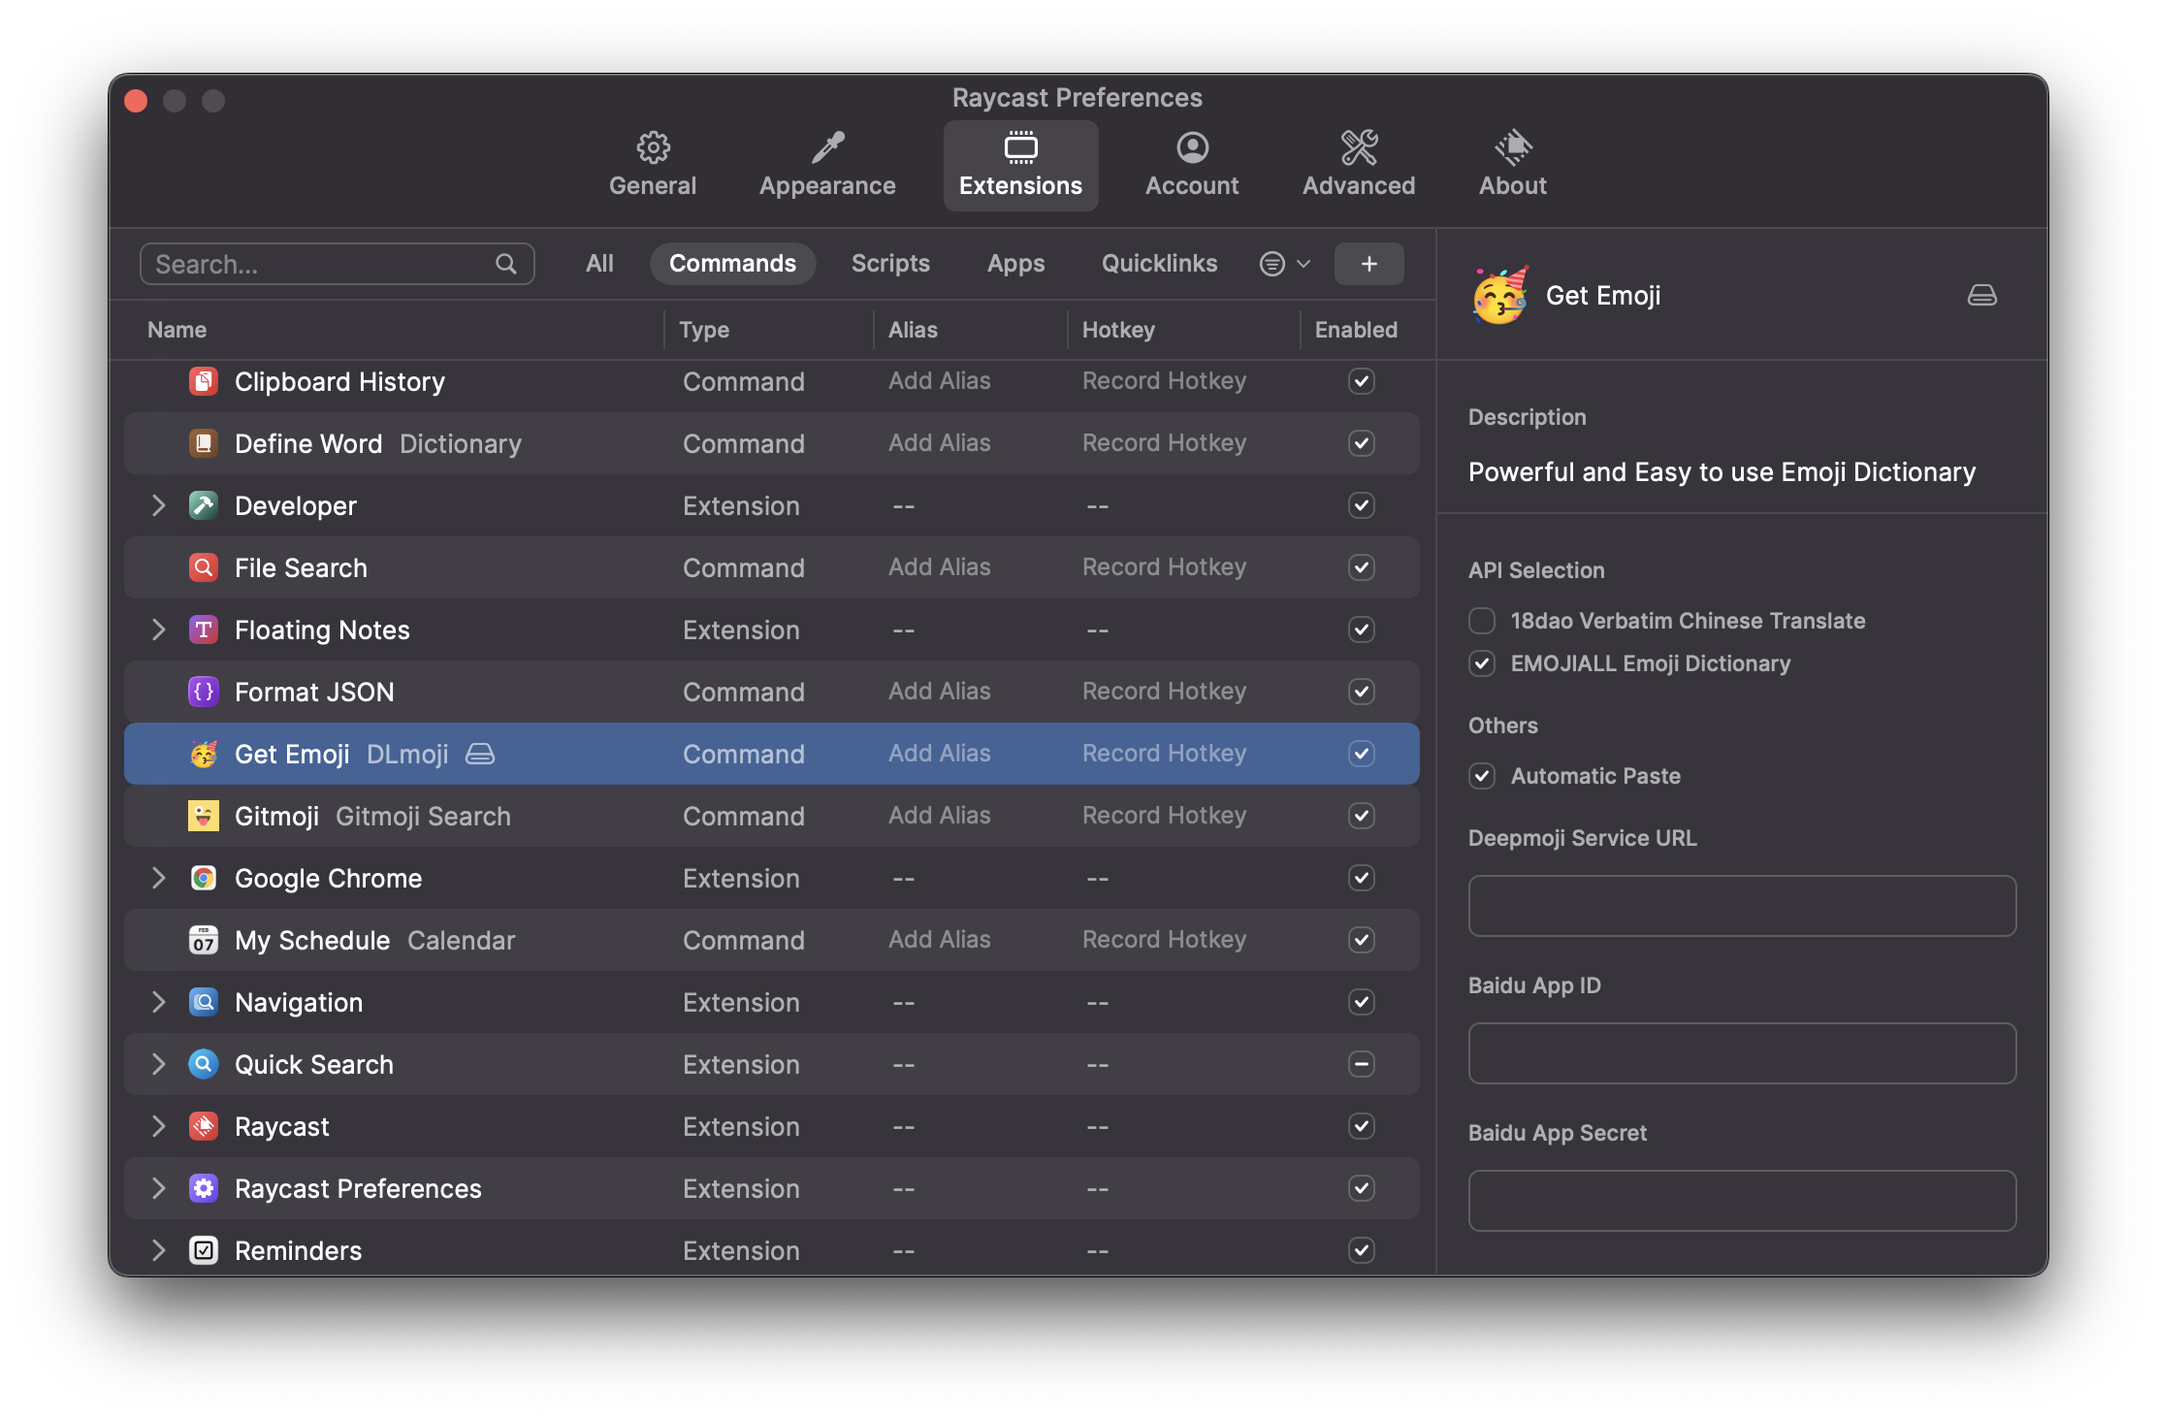
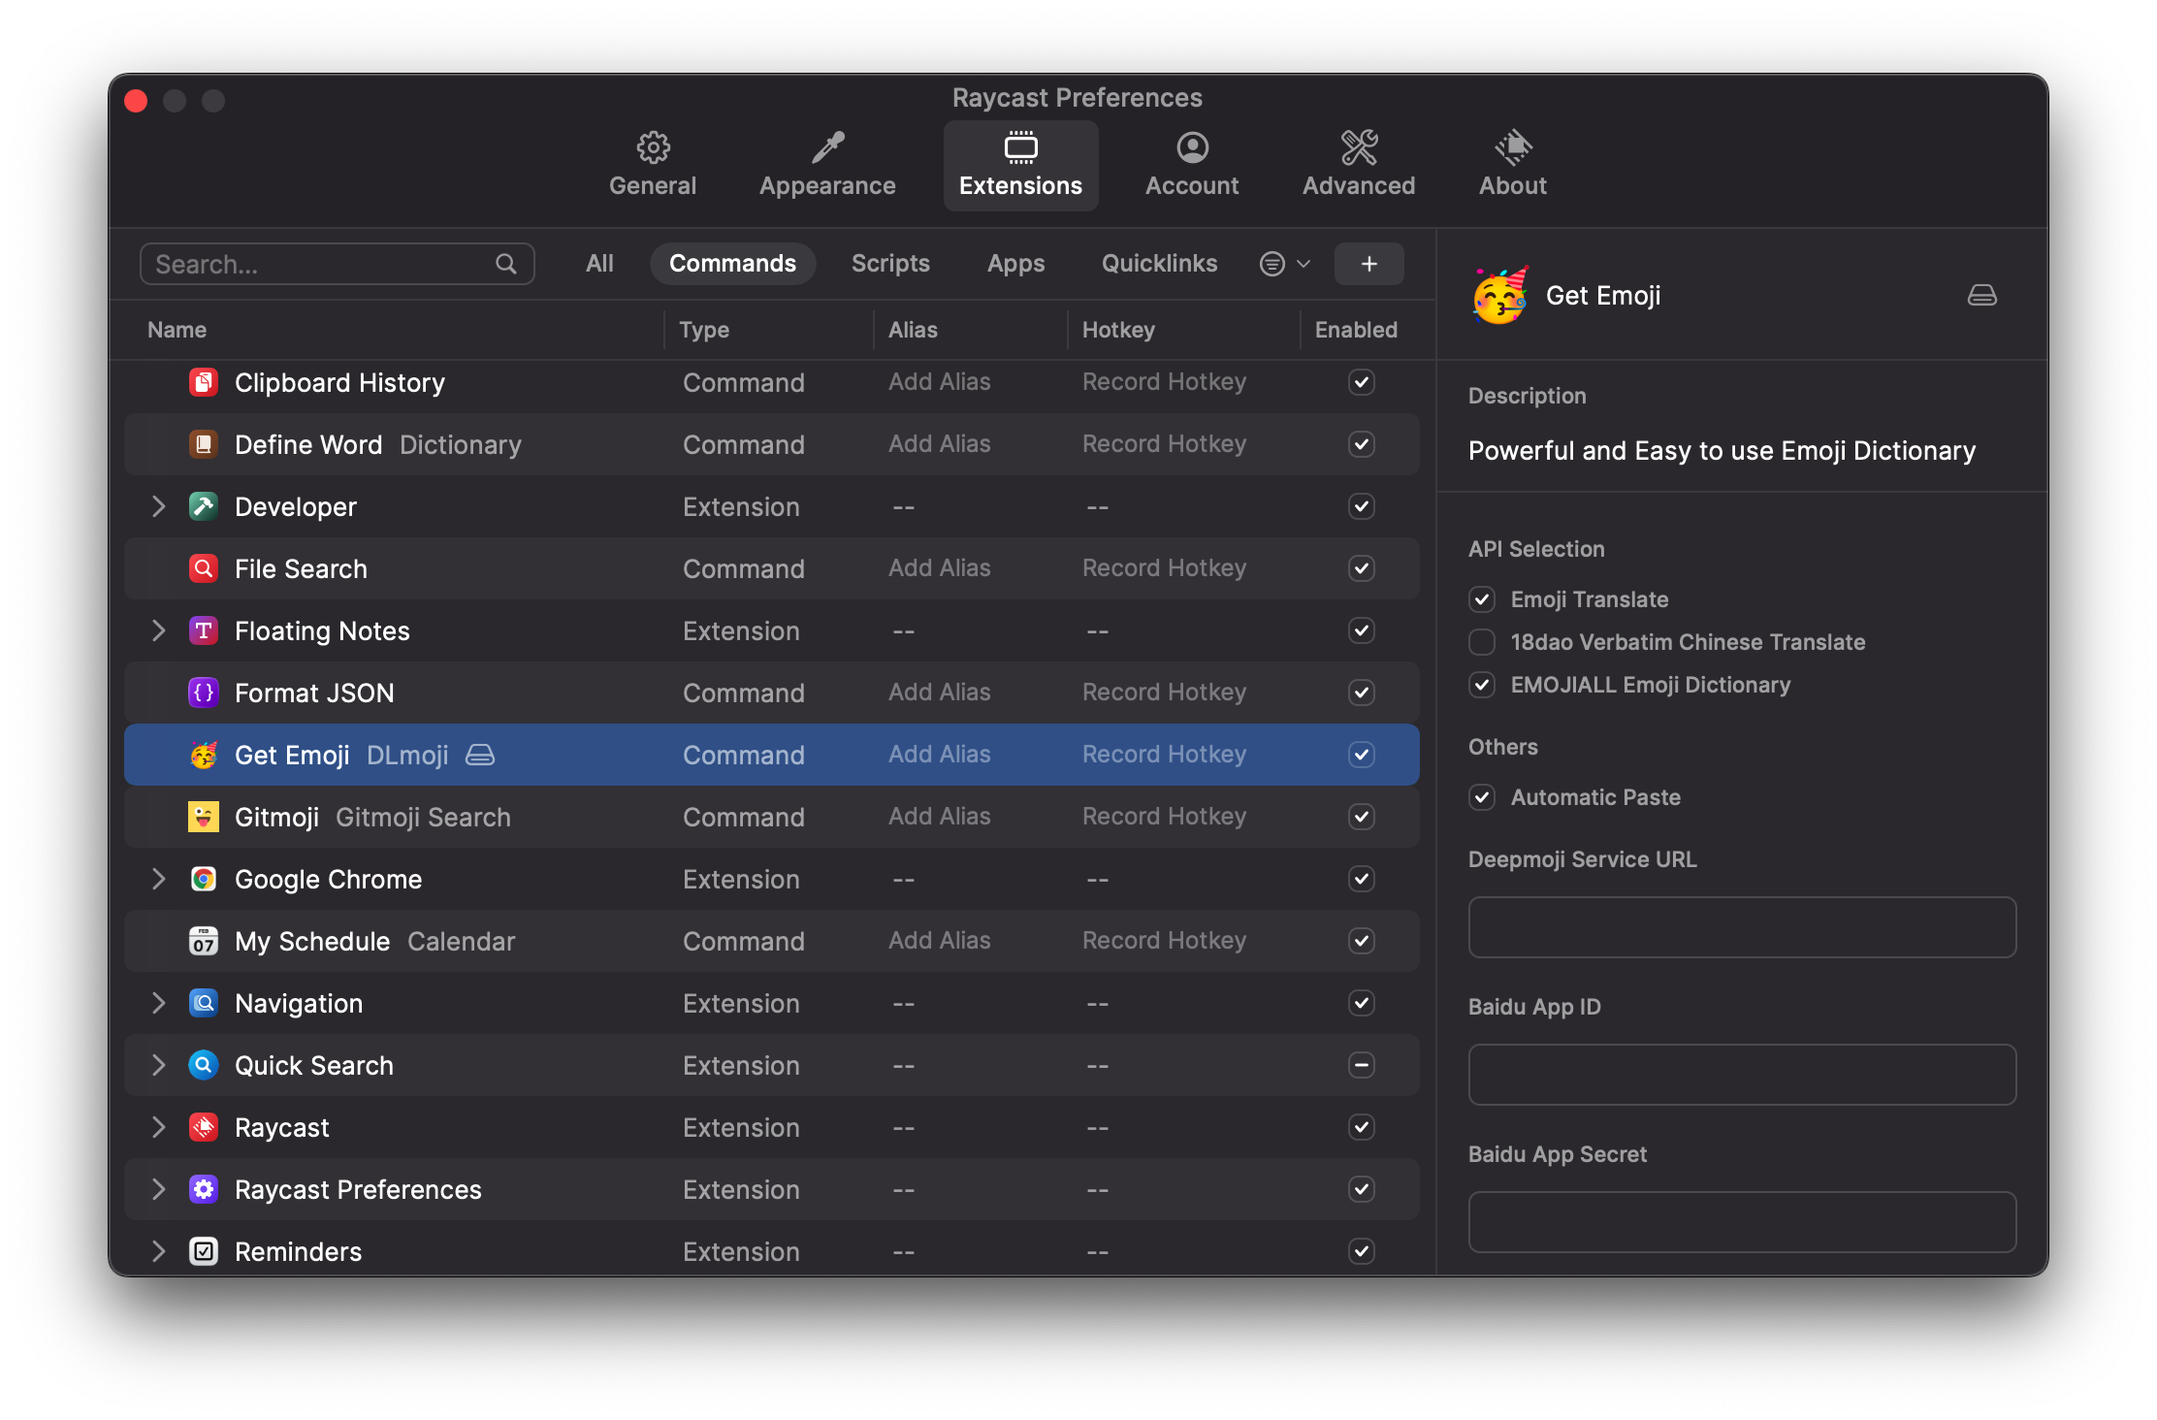
Imporve response speed by asynchronize EmojiTrans API; Add more clipborad options

diff --git a/src/dlmoji.tsx b/src/dlmoji.tsx
@@ -3,7 +3,16 @@ import { useEffect, useState } from "react"
 import TranslateResult from "./TranslateResult"
 import { Icon, List } from "@raycast/api"
 import axios from "axios"
-import { fetchBaiduTrans, fetchChineseEmojiTrans, fetchDeepmoji, fetchEmojiAll, fetchEmojiTrans } from "./api"
+import { cloneDeep } from "lodash"
+import {
+    fetchBaiduTrans,
+    fetchChineseEmojiTrans,
+    fetchDeepmoji,
+    fetchEmojiAll,
+    fetchEmojiTrans,
+    preConnect,
+    setAxiosTimeout,
+} from "./api"
 import {
     formatBaiduTrans,
     formatChineseEmojiTrans,
@@ -14,9 +23,15 @@ import {
 import { getEmojiTransKey } from "./storage"
 import { SECTION_TYPE } from "./consts"
 
+// use preConnect to reduce API response time
+preConnect().then(() =>
+    setTimeout(() => {
+        setAxiosTimeout(6)
+    }, 3000)
+)
+
 let delayFetchTranslateAPITimer: NodeJS.Timeout
 let delayUpdateTargetLanguageTimer: NodeJS.Timeout
-// let othersLoaded = false
 
 export default function () {
     const [inputState, updateInputState] = useState<string>()
@@ -28,8 +43,8 @@ export default function () {
 
         // String Filter
         const queryGlobal: string = inputState
-        const queryText: string = queryGlobal.replace(/伶仔|伶伶/g, "公主").replace(/邓港大/g, "猪")
-        const queryEmoji: string = queryGlobal.replace(/伶仔|伶伶/g, "🐰").replace(/邓港大/g, "🦊")
+        const queryText: string = queryGlobal.replace(/陈炤伶|伶仔|伶伶/g, "公主").replace(/邓港大/g, "猪")
+        const queryEmoji: string = queryGlobal.replace(/陈炤伶|伶仔|伶伶/g, "🐰").replace(/邓港大/g, "🦊")
 
         const hasChinese = /[\u4E00-\u9FA5]+/g.test(queryText)
         const lang = hasChinese ? "zh" : "en"
@@ -49,46 +64,69 @@ export default function () {
             }
             const res = await fetchDeepmoji(enText)
             if (!res?.data) return
+            console.log("Deepmoji Data Received")
             return formatDeepmoji(res.data.emoji[0])
         }
         async function getEmojiTrans(updateKey = false): Promise<ITranslateReformatResultItem | undefined> {
+            if (!preferences.useEmojiTranslate) return
             const key = await getEmojiTransKey(updateKey)
             const res = await fetchEmojiTrans(queryEmoji, lang, key)
-            if (!res?.data) {
+            if (!res) return
+            if (!res.data) {
+                console.log("Emoji Translation Key Update")
                 return getEmojiTrans(true)
             }
+            console.log("EmojiTrans Data Received")
             return formatEmojiTrans(res.data)
         }
         async function getChineseEmojiTrans(): Promise<ITranslateReformatResultItem | undefined> {
             if (!preferences.useVerbatimTranslate || !hasChinese) return
             const res = await fetchChineseEmojiTrans(queryEmoji)
             if (!res?.data) return
+            console.log("ChineseEmojiTrans Data Received")
             return formatChineseEmojiTrans(res.data)
         }
         async function getEmojiAll(): Promise<any> {
             if (!preferences.useEmojiAll) return
             const res = await fetchEmojiAll(queryText, lang)
             if (!res?.data) return
+            console.log("EmojiAll Data Received")
             return formatEmojiAll(res.data)
         }
 
-        axios.all([getDeepmoji(), getEmojiTrans(), getChineseEmojiTrans(), getEmojiAll()]).then(
-            axios.spread((deepmoji, emojiTrans, verbatimTrans, emojiAll) => {
-                const result: ITranslateReformatResult = {
+        getEmojiTrans().then((emojiTrans) => {
+            if (!emojiTrans) return
+            if (dataList[0]?.type === SECTION_TYPE.Translate) {
+                dataList[0].children.unshift(emojiTrans)
+            } else {
+                dataList.unshift({
                     type: SECTION_TYPE.Translate,
                     title: SECTION_TYPE.Translate,
-                    children: [],
-                }
-                if (emojiTrans) {
-                    result.children.push(emojiTrans)
-                }
+                    children: [emojiTrans],
+                })
+            }
+            updateTranslateResultState(cloneDeep(dataList))
+        })
+
+        axios.all([getDeepmoji(), getChineseEmojiTrans(), getEmojiAll()]).then(
+            axios.spread((deepmoji, verbatimTrans, emojiAll) => {
+                const transArray: ITranslateReformatResultItem[] = []
                 if (deepmoji) {
-                    result.children.push(deepmoji)
+                    transArray.push(deepmoji)
                 }
                 if (verbatimTrans) {
-                    result.children.push(verbatimTrans)
+                    transArray.push(verbatimTrans)
                 }
-                dataList.unshift(result)
+
+                if (dataList[0]?.type === SECTION_TYPE.Translate) {
+                    dataList[0].children.push(...transArray)
+                } else {
+                    dataList.unshift({
+                        type: SECTION_TYPE.Translate,
+                        title: SECTION_TYPE.Translate,
+                        children: transArray,
+                    })
+                }
 
                 if (emojiAll?.length > 0) {
                     dataList.push(...emojiAll)

diff --git a/src/TranslateResult.tsx b/src/TranslateResult.tsx
@@ -1,7 +1,17 @@
 import { Component, Fragment } from "react"
-import { SECTION_TYPE } from "./consts"
-import { Action, ActionPanel, Clipboard, Color, Icon, List, getPreferenceValues } from "@raycast/api"
-import { truncate } from "./utils"
+import { COPY_SEPARATOR, SECTION_TYPE } from "./consts"
+import {
+    Action,
+    ActionPanel,
+    Clipboard,
+    Color,
+    Icon,
+    List,
+    getPreferenceValues,
+    KeyEquivalent,
+    Keyboard,
+} from "@raycast/api"
+import { clamp, truncate } from "./utils"
 
 interface ITranslateResult {
     inputState?: string
@@ -19,7 +29,7 @@ function reformatCopyTextArray(data: string[], limitResultAmount = 10): IReforma
     return finalData.map((text, idx) => {
         return {
             // title: finalData.length - 1 === idx && idx > 0 ? "All" : truncate(text),
-            title: idx === 0 ? "All" : truncate(text),
+            title: idx === dataLength ? "All" : truncate(text, 40),
             value: text,
         }
     })
@@ -32,9 +42,9 @@ function ActionCopyListSection(props: IActionCopyListSection) {
         return null
     }
 
-    const SEPARATOR = "; "
-    const copyTextArray = props.copyText.split(SEPARATOR)
-    copyTextArray.length > 1 && copyTextArray.unshift(props.copyText)
+    const copyTextArray = props.copyText.split(COPY_SEPARATOR)
+    const newCopyText = copyTextArray.join(" ")
+    copyTextArray.length > 1 && copyTextArray.push(newCopyText)
     const finalTextArray = reformatCopyTextArray(copyTextArray, 6)
 
     // const shortcutKeyEquivalent: Keyboard.KeyEquivalent[] = ["1", "2", "3", "4", "5", "6", "7", "8", "9", "0"]
@@ -67,10 +77,11 @@ function ActionCopyListSection(props: IActionCopyListSection) {
             {finalTextArray.map((textItem, key) => {
                 const title = textItem.title
                 const value = textItem.value
+                const shortcutKey = clamp(key + 1).toString() as Keyboard.KeyEquivalent
                 return (
                     <Action.CopyToClipboard
                         onCopy={() => preferences.isAutomaticPaste && Clipboard.paste(textItem.value)}
-                        // shortcut={{ modifiers: ["cmd"], key: [key] }}
+                        shortcut={{ modifiers: ["cmd"], key: shortcutKey }}
                         title={`Copy ${title}`}
                         content={value}
                         key={key}
@@ -125,12 +136,11 @@ export default function TranslateResult(props: ITranslateResult) {
                                     icon={iconMaps[result.type!]}
                                     title={item.title}
                                     subtitle={item?.subtitle}
-                                    accessoryTitle={item.phonetic}
                                     detail={<List.Item.Detail markdown={item.title} />}
                                     actions={
                                         <ListActionPanel
                                             queryText={props.inputState}
-                                            copyText={item?.key || item.subtitle || item.title}
+                                            copyText={item?.copyText || item.key || item.subtitle}
                                         />
                                     }
                                 />

diff --git a/src/formatter.tsx b/src/formatter.tsx
@@ -1,11 +1,15 @@
-import { SECTION_TYPE } from "./consts"
+import { COPY_SEPARATOR, SECTION_TYPE } from "./consts"
 import { load } from "cheerio"
 import { truncate } from "./utils"
 
 const MAX_LENGTH = 5
 
+export function formatEmojiTrans(emojis: string): ITranslateReformatResultItem {
+    return constructResultItem("Emoji Translate", emojis)
+}
+
 export function formatBaiduTrans(data: BaiduTranslateResult) {
-    if (data.trans_result) {
+    if (data?.trans_result) {
         return data.trans_result[0].dst
     }
     return ""
@@ -17,25 +21,17 @@ export function formatDeepmoji(preds: EmojiScore[]): ITranslateReformatResultIte
             return a.prob - b.prob
         })
         .reverse()
-    const emojis = preds
-        .slice(0, 5)
-        .map((value, idx) => {
-            return value.emoji
-        })
-        .join("; ")
+    const emojiArray = preds.slice(0, 5).map((value) => {
+        return value.emoji
+    })
+    const emojiText = emojiArray.join(" ")
+    const copyText = emojiArray.join(COPY_SEPARATOR)
 
     return {
         title: "Emotion Analysis",
-        subtitle: emojis,
-        key: emojis,
-    }
-}
-
-export function formatEmojiTrans(emojis: string): ITranslateReformatResultItem {
-    return {
-        title: "Emoji Translate",
-        subtitle: emojis,
-        key: emojis,
+        subtitle: emojiText,
+        key: emojiText,
+        copyText: copyText,
     }
 }
 
@@ -43,16 +39,20 @@ export function formatEmojiAll(data: EmojiDataItem[]): ITranslateReformatResult[
     if (!data) return
 
     function extract(item: EmojiDataItem) {
+        const emoji = item.emoji_symbol
+        const description = item.description.replace(/<[^>]+>|\r|\n|\\s/gi, "") // 去掉换行,空格,html标签
+        const copyText = description ? emoji + COPY_SEPARATOR + description : emoji
         return {
-            title: truncate(item.value, 32) + "  " + item.emoji_symbol,
-            subtitle: item.description.replace(/<[^>]+>|\r|\n|\\s/gi, ""), // 去掉换行,空格,html标签
-            key: item.emoji_symbol,
+            title: truncate(item.value, 26) + "  " + item.emoji_symbol,
+            subtitle: description,
+            key: emoji,
+            copyText: copyText,
         }
     }
 
     const emojiList: ITranslateReformatResultItem[] = []
     const combineList: ITranslateReformatResultItem[] = []
-    data.forEach((item, idx) => {
+    data.forEach((item) => {
         if (item.type === "emoji") {
             emojiList.push(extract(item))
         } else if (item.type === "combine") {
@@ -85,10 +85,14 @@ export function formatChineseEmojiTrans(doc: string): ITranslateReformatResultIt
     const $ = load(doc)
     const text: string = $("meta[name=keywords]").attr("content")!
     const emojis: string = text.split(", ").slice(1).join(" ")
+    return constructResultItem("Verbatim Translate", emojis)
+}
 
+function constructResultItem(title: string, emojiText: string) {
     return {
-        title: "Verbatim Translate",
-        subtitle: emojis,
-        key: emojis,
+        title: title,
+        subtitle: emojiText,
+        key: emojiText,
+        copyText: emojiText,
     }
 }

diff --git a/src/api.tsx b/src/api.tsx
@@ -3,6 +3,7 @@ import axios from "axios"
 import querystring from "node:querystring"
 import CryptoJS from "crypto-js"
 import { checkURL, defaultBaiduAppId, defaultBaiduAppSecret, preferences, showErrorToast } from "./utils"
+import { getEmojiTransKey } from "./storage"
 
 // baidu app id and secret
 const baiduAppId = preferences.baiduAppId.trim().length > 0 ? preferences.baiduAppId.trim() : defaultBaiduAppId
@@ -13,6 +14,31 @@ const baiduAppSecret =
 const deepmojiURL = preferences.deepmojiURL.trim()
 if (deepmojiURL.length > 0 && !checkURL(deepmojiURL)) {
     showErrorToast("deepmoji", "invalid URL address")
+}
+
+export async function preConnect() {
+    const connects = []
+    if (preferences.useEmojiTranslate) {
+        connects.push(
+            getEmojiTransKey(false).then((key) => {
+                fetchEmojiTrans("", "en", key)
+            })
+        )
+    }
+    if (preferences.useVerbatimTranslate) {
+        connects.push(fetchChineseEmojiTrans(""))
+    }
+    if (preferences.useEmojiAll) {
+        connects.push(fetchEmojiAll("", "en"))
+    }
+    return axios.all(connects)
+}
+
+export function setAxiosTimeout(seconds = 6) {
+    axios.interceptors.request.use((config) => {
+        config.timeout = seconds * 1000
+        return config
+    })
 }
 
 /**
@@ -35,7 +61,10 @@ export async function fetchBaiduTrans(queryText: string): Promise<any> {
         salt: salt,
         sign: sign,
     }
-    return axios.get(url, { params })
+    return axios.get(url, { params }).catch((err) => {
+        showErrorToast("Baidu Translate", err.message)
+        return
+    })
 }
 
 export async function fetchDeepl(queryText: string): Promise<any> {
@@ -98,12 +127,8 @@ export async function fetchEmojiAll(queryText: string, fromLanguage: string): Pr
                 lang: lang,
             }),
             {
-                timeout: 6 * 1000,
                 headers: {
-                    // 'User-Agent': 'apifox/1.0.0 (https://www.apifox.cn)',
-                    // 'Accept': '*/*',
                     // 'Content-Type': 'multipart/form-data',
-                    // 'Connection': 'keep-alive',
                     referer: "https://www.emojiall.com/",
                 },
             }

diff --git a/src/types.d.ts b/src/types.d.ts
@@ -18,9 +18,9 @@ interface ITranslateReformatResult {
 
 interface ITranslateReformatResultItem {
     key: string
-    phonetic?: string
     title: string
     subtitle?: string
+    copyText: string
 }
 
 interface ITranslateResultWebItem {
@@ -37,6 +37,7 @@ interface ITranslateResultBasicItem {
 
 interface IPreferences {
     useVerbatimTranslate: boolean
+    useEmojiTranslate: boolean
     useEmojiAll: boolean
     isAutomaticPaste: boolean
     deepmojiURL: string

diff --git a/src/utils.ts b/src/utils.ts
@@ -38,3 +38,7 @@ export function truncate(string: string, length = 16, separator = "..") {
 
     return string.substring(0, length) + separator
 }
+
+export function clamp(num: number, min = 0, max = 9) {
+    return Math.min(Math.max(num, min), max)
+}

diff --git a/src/consts.tsx b/src/consts.tsx
@@ -3,3 +3,5 @@ export enum SECTION_TYPE {
     Emoji = "Related Emojis",
     Phrase = "Phrases",
 }
+
+export const COPY_SEPARATOR = "; "

diff --git a/README.md b/README.md
@@ -24,6 +24,8 @@
 
 ![Config Panel](./assets/Config-Panel.png)
 
+Some APIs might cause timeout errors and be unstable. To avoid these annoying alerts, you can uncheck the corresponding APIs in the following Configuration.
+
 To enable `Emotion Analysis`, you need to deploy deepmoji as a web service on your server. Here we offer an off-the-shelf [deepmoji docker image](https://hub.docker.com/r/thandaanda/deepmoji). If you want to use another model service, remember to follow the response format:
 
 ```json
